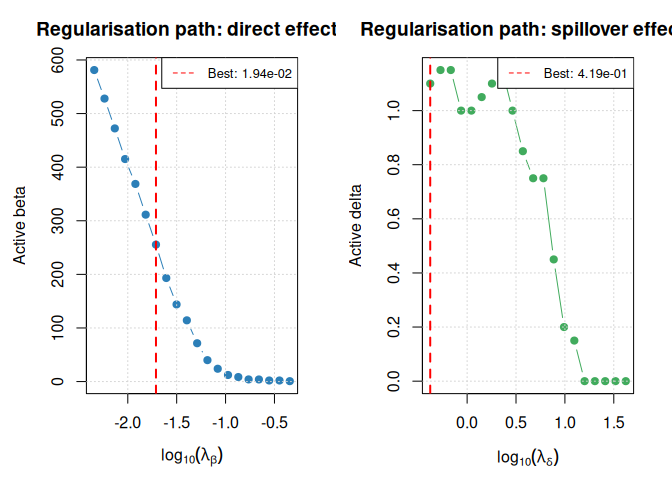
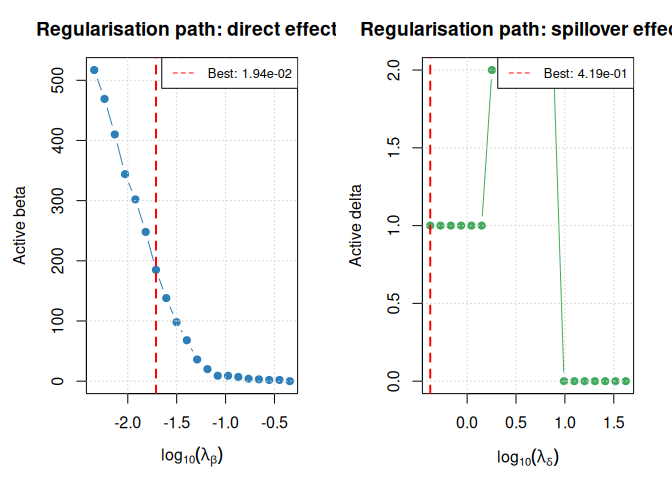
vignette2

diff --git a/README.md b/README.md
@@ -1,6 +1,7 @@
-# heritage - Simulation Study: Scenario 1 (High Dimensionality)
-Abdoul Oudouss Diakite, Anne-Marie Madore, Celia M. T. Greenwood, Catherine Laprise
-2026-03-27
+# heritage — Simulation Study: Scenario 1 (High Dimensionality)
+Abdoul Oudouss Diakite, Anne-Marie Madore, Celia M. T.
+Greenwood, Catherine Laprise
+2026-06-05
 
 ## Overview
 
@@ -53,7 +54,7 @@ set.seed(2026)
 
 ------------------------------------------------------------------------
 
-## Step 1 - Simulate the pedigree
+## Step 1 — Simulate the pedigree
 
 Following the paper: 4-generation pedigree starting from 250 founders,
 litter size 2, random mate selection.
@@ -103,7 +104,7 @@ table(pedigree_df$gen)
 
 ------------------------------------------------------------------------
 
-## Step 2 - Simulate genotypes
+## Step 2 — Simulate genotypes
 
 Allele frequencies are drawn uniformly from $[0.01, 0.99]$ and genotypes
 are propagated according to Mendelian laws via
@@ -136,7 +137,7 @@ cat(sprintf("AF range        : [%.3f, %.3f]\n",
 
 ------------------------------------------------------------------------
 
-## Step 3 - Compute the kinship matrix
+## Step 3 — Compute the kinship matrix
 
 ``` r
 K <- as.matrix(kinship(
@@ -152,7 +153,7 @@ cat(sprintf("Kinship matrix : %d x %d\n", nrow(K), ncol(K)))
 
 ------------------------------------------------------------------------
 
-## Step 4 - Build the ancestor list
+## Step 4 — Build the ancestor list
 
 Using `build_ancestor_list()` from the `heritage` package, which
 recursively traverses the pedigree for each individual via
@@ -175,7 +176,7 @@ cat(sprintf("Non-founders            : %d\n", N - n_founders))
 
 ------------------------------------------------------------------------
 
-## Step 5 - Compute the spillover matrix $s_X$
+## Step 5 — Compute the spillover matrix $s_X$
 
 ``` r
 sX <- compute_spillover_X(X, K, ancestors)
@@ -188,7 +189,7 @@ cat(sprintf("Individuals with non-zero spillover: %.1f%%\n",
 
 ------------------------------------------------------------------------
 
-## Step 6 - Generate the outcome
+## Step 6 — Generate the outcome
 
 True coefficients are fixed across replications; only $\varepsilon$
 varies.
@@ -246,7 +247,7 @@ cat(sprintf("Oracle R2 (signal / variance) : %.3f\n",
 
 ------------------------------------------------------------------------
 
-## Step 7 - Split data by family
+## Step 7 — Split data by family
 
 Data are partitioned **by family** (60 % train / 20 % tune / 20 % test)
 to prevent data leakage, following the paper’s protocol.
@@ -305,6 +306,7 @@ X_test   <- scale_mat(X[idx_test,   ], mu_X, sd_X)
 
 sX_train <- scale_mat(sX[idx_train, ], mu_X, sd_X)
 sX_tune  <- scale_mat(sX[idx_tune,  ], mu_X, sd_X)
+
 sX_test  <- scale_mat(sX[idx_test,  ], mu_X, sd_X)
 
 y_train  <- y[idx_train]
@@ -314,7 +316,7 @@ y_test   <- y[idx_test]
 
 ------------------------------------------------------------------------
 
-## Step 8 - Fit HERITAGE with grid search
+## Step 8 — Fit HERITAGE with grid search
 
 ``` r
 gs <- heritage_gs(
@@ -356,7 +358,7 @@ print(gs)
 
 ------------------------------------------------------------------------
 
-## Step 9 - Diagnostics
+## Step 9 — Diagnostics
 
 ### Regularisation paths
 
@@ -368,7 +370,7 @@ plot(gs, type = "paths")
 
 ![](README_files/figure-commonmark/fig-paths-1.png)
 
-Figure 2: Number of active coefficients as a function of each penalty.
+Figure 1: Number of active coefficients as a function of each penalty.
 
 </div>
 
@@ -382,13 +384,13 @@ plot(gs, type = "sparsity")
 
 ![](README_files/figure-commonmark/fig-sparsity-1.png)
 
-Figure 3: Active coefficient counts across all grid combinations.
+Figure 2: Active coefficient counts across all grid combinations.
 
 </div>
 
 ------------------------------------------------------------------------
 
-## Step 10 - Performance metrics
+## Step 10 — Performance metrics
 
 ``` r
 best  <- gs$best_model
@@ -433,7 +435,7 @@ ggplot(data.frame(obs = y_test, pred = y_hat),
 
 ![](README_files/figure-commonmark/fig-obs-pred-1.png)
 
-Figure 4: Observed vs predicted values on the test set.
+Figure 3: Observed vs predicted values on the test set.
 
 </div>
 
@@ -441,6 +443,7 @@ Figure 4: Observed vs predicted values on the test set.
 
 ## Reference
 
-Abdoul Oudouss Diakite, Anne-Marie Madore, Celia M. T. Greenwood, Catherine Laprise (2026).
-HERITAGE: Hierarchical effects regression with interactions for trait
-analysis in genetics. *Manuscript in preparation.*
+Abdoul Oudouss Diakite, Anne-Marie Madore, Celia M. T. Greenwood,
+Catherine Laprise (2026). HERITAGE: Hierarchical effects regression with
+interactions for trait analysis in genetics. *Manuscript in
+preparation.*
